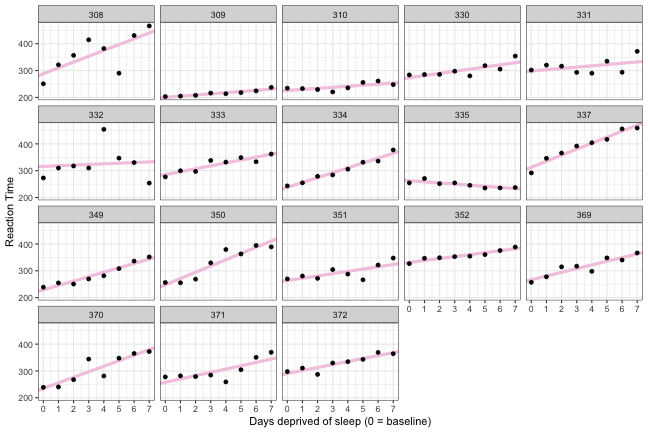
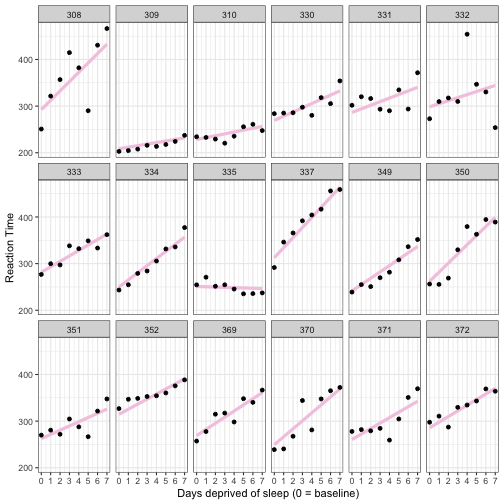
solve graph display issue.

diff --git a/content/slides/lme/lmer.html b/content/slides/lme/lmer.html
@@ -779,8 +779,8 @@ Partial pooling
 The effects of **sleep deprivation** on psychomotor performance / reaction time (Belenky et al., 2003)
 
 .pull-left[#### Multilevel data with continuous predictor
-<div id="htmlwidget-26042e83b45d6c31a44d" style="width:100%;height:auto;" class="datatables html-widget"></div>
-<script type="application/json" data-for="htmlwidget-26042e83b45d6c31a44d">{"x":{"filter":"none","fillContainer":false,"data":[["1","2","3","4","5","6","7","8","9","10"],[249.56,258.7047,250.8006,321.4398,356.8519,414.6901,382.2038,290.1486,430.5853,466.3535],[0,1,2,3,4,5,6,7,8,9],["308","308","308","308","308","308","308","308","308","308"]],"container":"<table class=\"display\">\n  <thead>\n    <tr>\n      <th> <\/th>\n      <th>Reaction<\/th>\n      <th>Days<\/th>\n      <th>Subject<\/th>\n    <\/tr>\n  <\/thead>\n<\/table>","options":{"pageLength":4,"columnDefs":[{"className":"dt-right","targets":[1,2]},{"orderable":false,"targets":0}],"order":[],"autoWidth":false,"orderClasses":false,"lengthMenu":[4,10,25,50,100]}},"evals":[],"jsHooks":[]}</script>
+<div id="htmlwidget-ee38aacdcfd4c70afd69" style="width:100%;height:auto;" class="datatables html-widget"></div>
+<script type="application/json" data-for="htmlwidget-ee38aacdcfd4c70afd69">{"x":{"filter":"none","fillContainer":false,"data":[["1","2","3","4","5","6","7","8","9","10"],[249.56,258.7047,250.8006,321.4398,356.8519,414.6901,382.2038,290.1486,430.5853,466.3535],[0,1,2,3,4,5,6,7,8,9],["308","308","308","308","308","308","308","308","308","308"]],"container":"<table class=\"display\">\n  <thead>\n    <tr>\n      <th> <\/th>\n      <th>Reaction<\/th>\n      <th>Days<\/th>\n      <th>Subject<\/th>\n    <\/tr>\n  <\/thead>\n<\/table>","options":{"pageLength":4,"columnDefs":[{"className":"dt-right","targets":[1,2]},{"orderable":false,"targets":0}],"order":[],"autoWidth":false,"orderClasses":false,"lengthMenu":[4,10,25,50,100]}},"evals":[],"jsHooks":[]}</script>
 ]
 .pull-right[#### Plot the data
 
@@ -896,7 +896,7 @@ ggplot(sleep2, aes(x = days_deprived, y = Reaction)) +
               color = '#f4cae2', size = 1.5) +
   geom_point() + theme_bw() +
   scale_x_continuous(breaks = 0:7) +
-  facet_wrap(~Subject) +
+  facet_wrap(~Subject, nrow=3) +
   labs(y = "Reaction Time", 
        x = "Days deprived of sleep (0 = baseline)")
 ```
@@ -912,7 +912,7 @@ There is no overall population intercept and slope that is being estimated.
 **multiple regression**
 ]
 .right-column[
-![](lmer_files/figure-html/unnamed-chunk-29-1.png)&lt;!-- --&gt;
+![](np-plot.png)
 ]
 
 ---
@@ -1007,7 +1007,8 @@ It would improve generalization to the population.
 We are interested in the 18 subjects as examples drawn from a larger population of potential subjects. 
 ]
 .right-column[
-![](lmer_files/figure-html/unnamed-chunk-33-1.png)&lt;!-- --&gt;
+![](pp-plot.png)
+
 ]
 ---
 # Partial pooling
